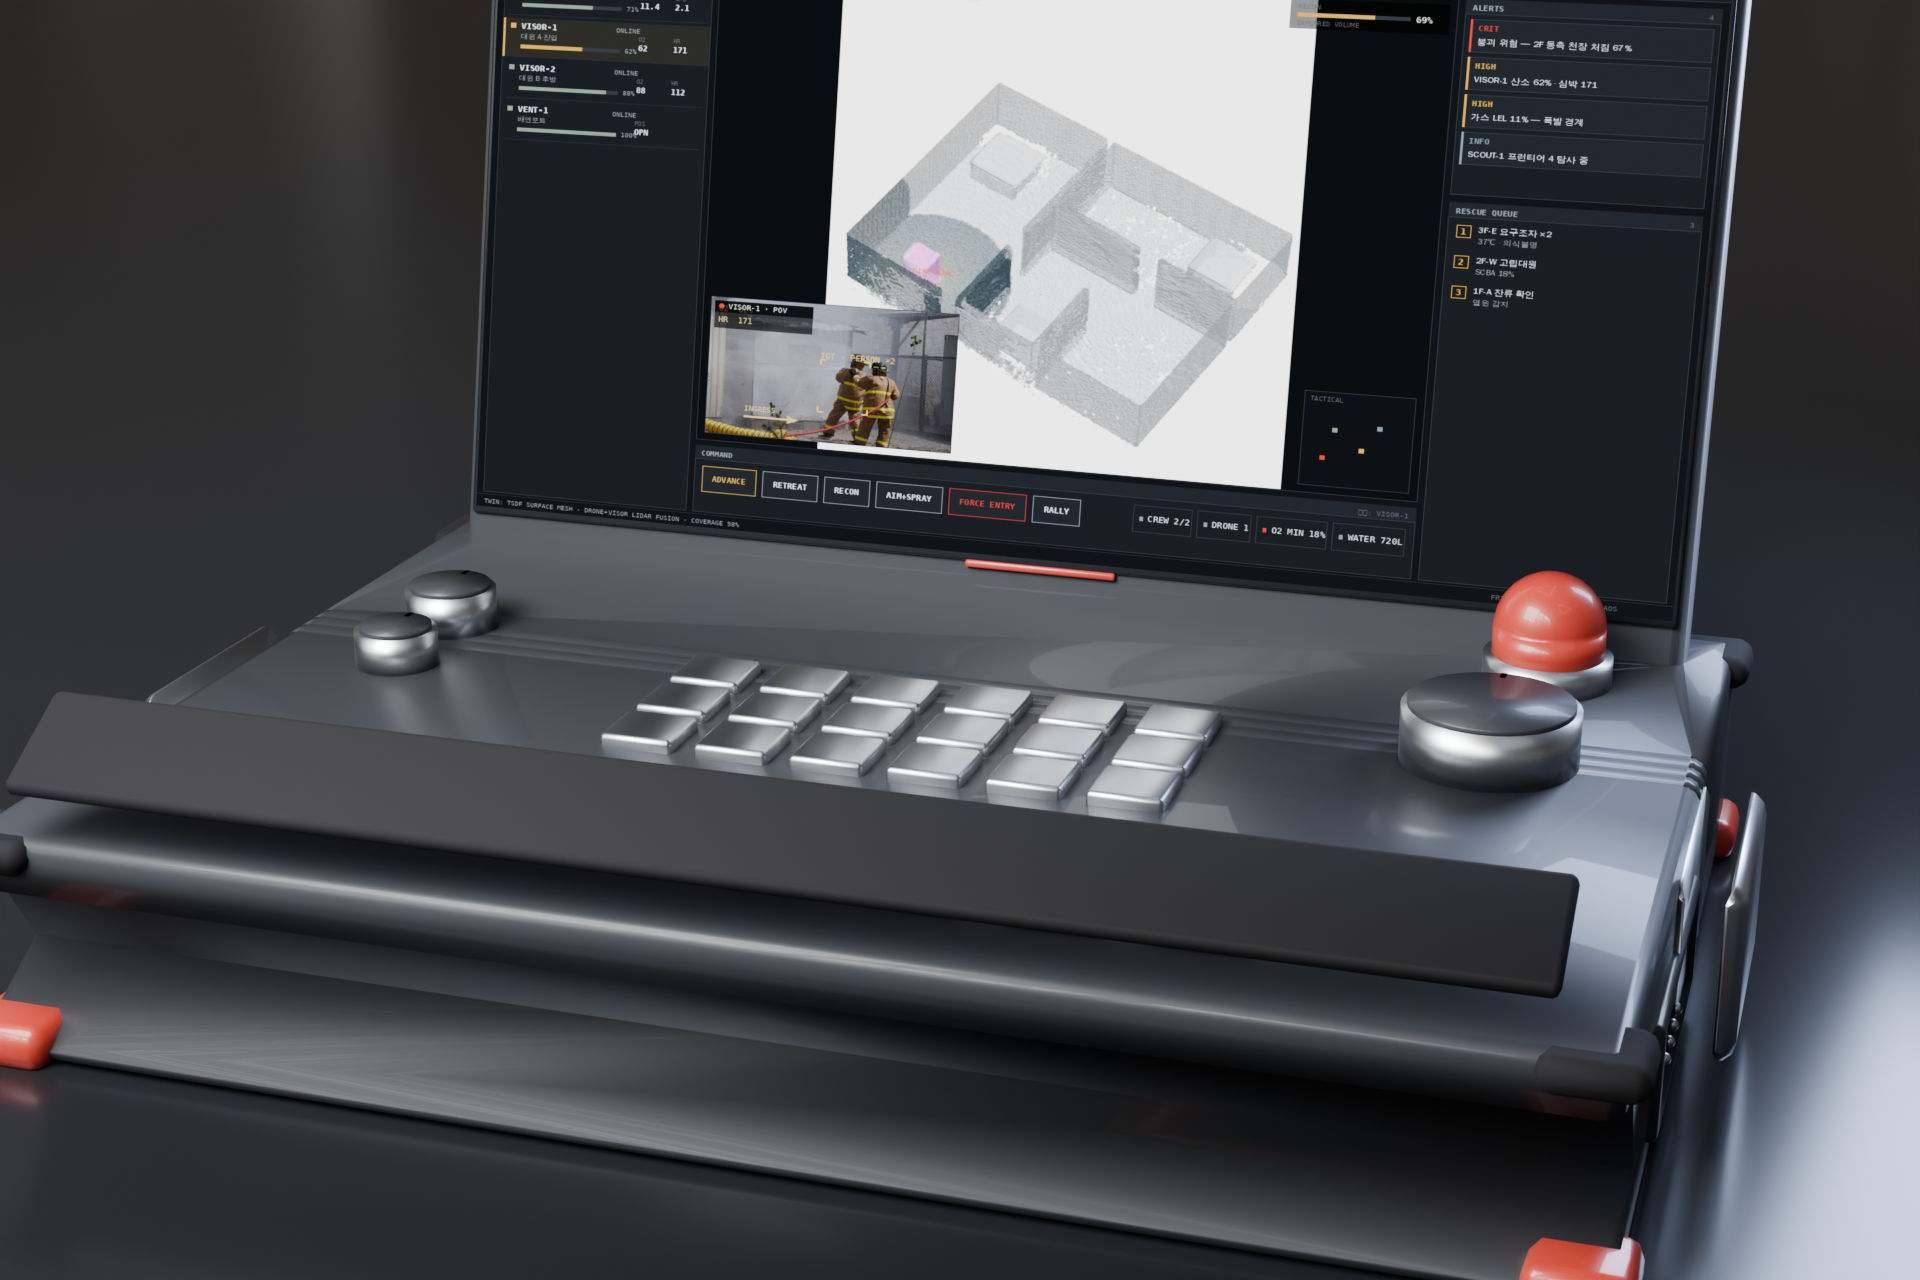
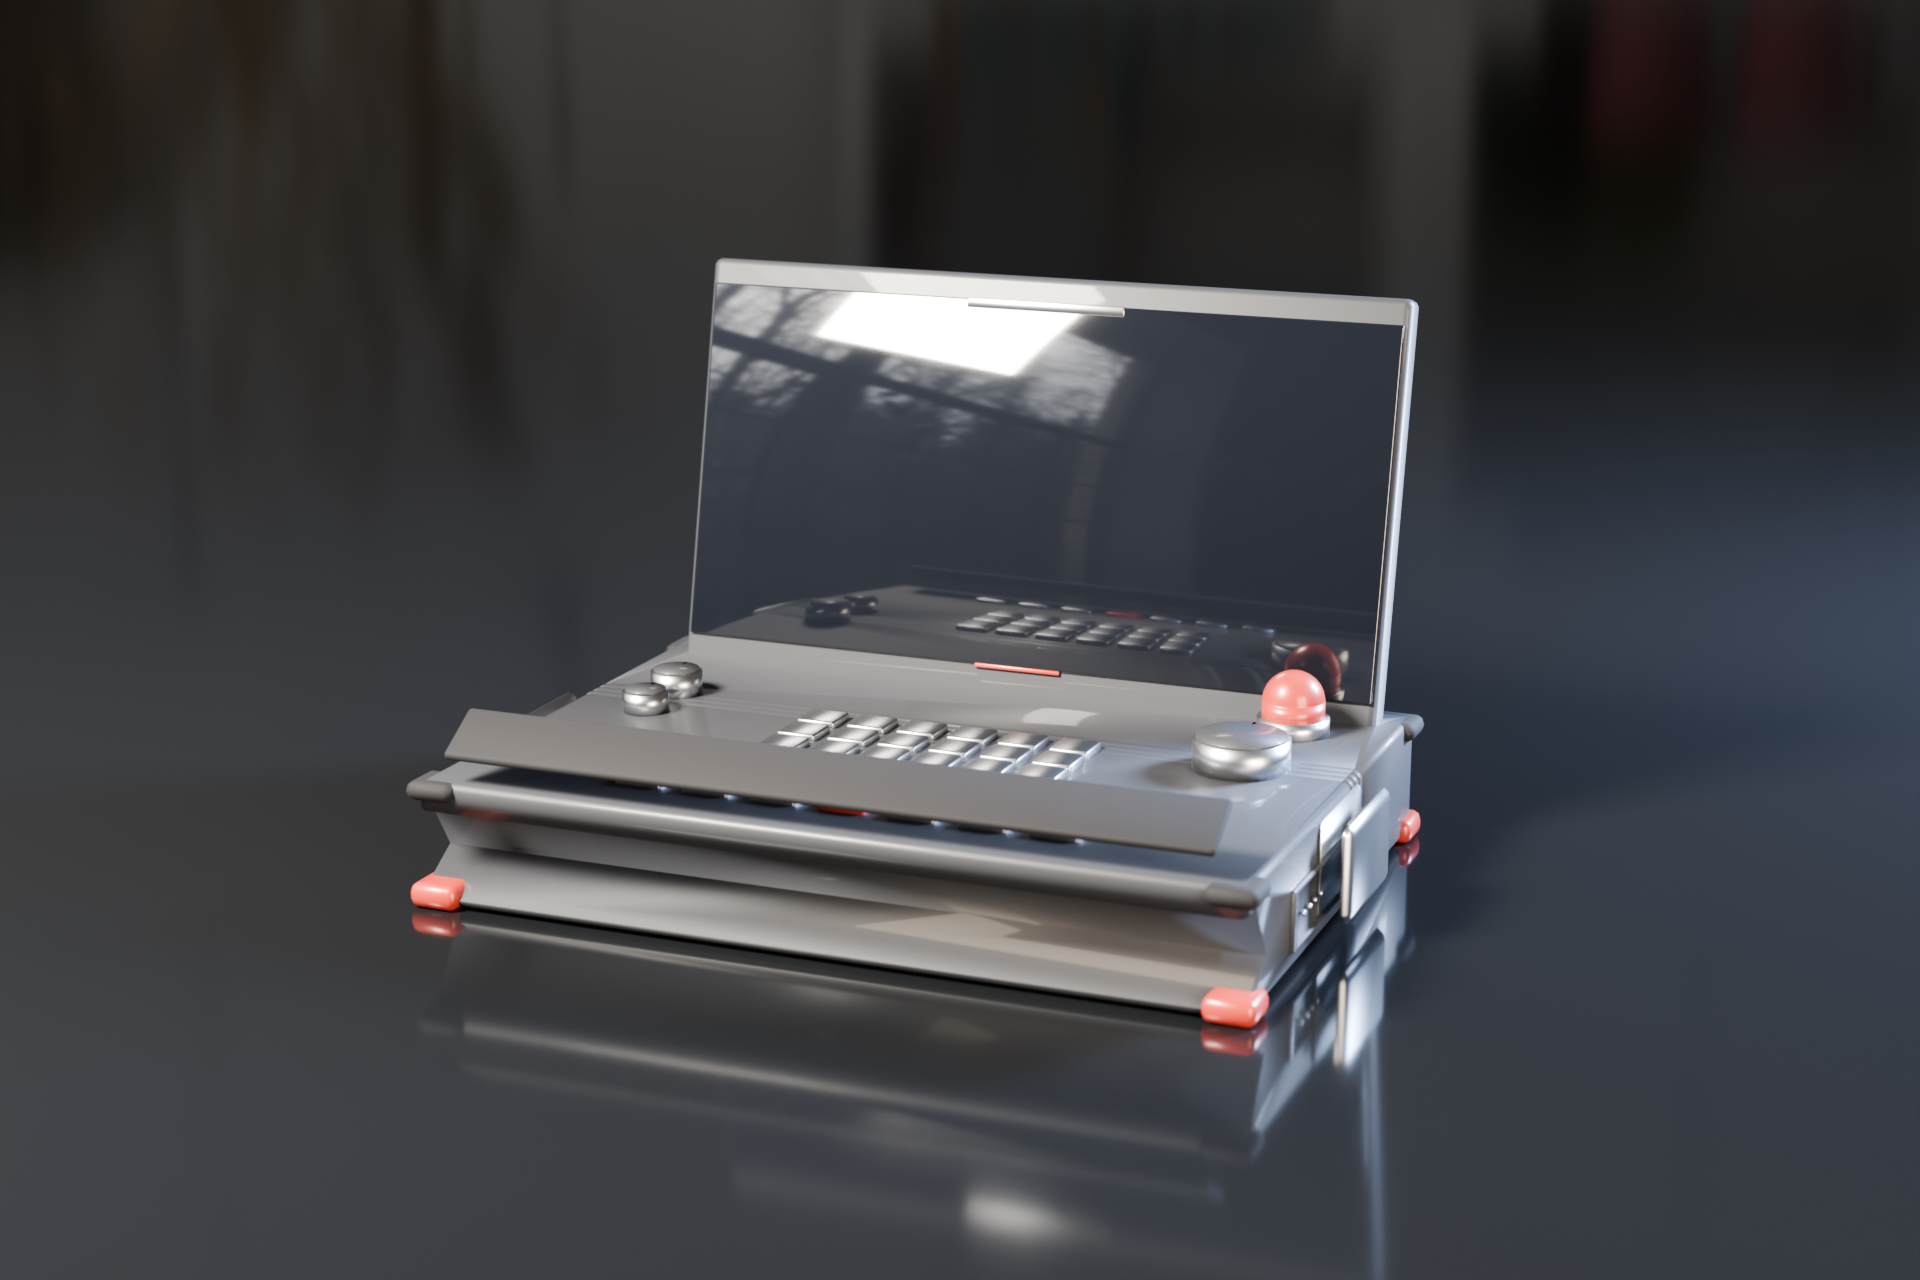
render: CONSOLE·VISOR 다크 제품샷(합성 없음, 스크린 꺼짐) + vent/twin 튜닝
콘솔은 대시보드 합성 제거 → 꺼진 다크글래스 스크린. 구 _detail 합성샷 삭제.

Claude-Session: https://claude.ai/code/session_01TaurVEcuaFqxGKrpuZ17se

diff --git a/hardware/render_blender/render_twin_hero.py b/hardware/render_blender/render_twin_hero.py
@@ -10,7 +10,8 @@ HDRI=os.path.join(ROOT,"hdri","studio_small_08_2k.hdr")
 argv=sys.argv[sys.argv.index("--")+1:] if "--" in sys.argv else []
 PLY=argv[0] if len(argv)>0 else "/tmp/dashtwin/twin.ply"
 OUT=argv[1] if len(argv)>1 else OUT_DEFAULT
-RES=(1920,1280); SAMPLES=340; CUT_Z=2.72     # 지붕/2층 컷 → 1층 내부 노출
+RES=(1920,1280); SAMPLES=200; CUT_Z=2.72     # 지붕/2층 컷 → 1층 내부 노출
+USE_HAZE=False                                # 볼륨 갓레이(CPU에서 매우 느림) ― 기본 off
 
 def setup_render():
     sc=bpy.context.scene; sc.render.engine='CYCLES'
@@ -130,7 +131,9 @@ def main():
     pts=[[email redacted] for v in o.data.vertices]
     ctr=sum(pts,mathutils.Vector((0,0,0)))/len(pts)
     rad=max((v-ctr).length for v in pts)
-    holo_floor(max(40,rad*3)); haze(ctr,rad); lights(ctr,rad)
+    holo_floor(max(40,rad*3));
+    if USE_HAZE: haze(ctr,rad)
+    lights(ctr,rad)
     cd=bpy.data.cameras.new("cam"); cd.lens=42
     cam=bpy.data.objects.new("cam",cd); bpy.context.collection.objects.link(cam); bpy.context.scene.camera=cam
     az,el=math.radians(-52),math.radians(38)

diff --git a/hardware/render_blender/render_products_dark.py b/hardware/render_blender/render_products_dark.py
@@ -171,7 +171,7 @@ JOBS=[
          groups=["body","screen","metal","accent","rubber"]),
     dict(name="scout",   stl="scout.stl", base=(0.018,0.020,0.026), az=46, el=17, zrot=25, lens=84, margin=1.18),
     dict(name="visor",   stl="visor.stl", base=(0.024,0.026,0.034), az=40, el=18, zrot=0,  lens=80, margin=1.4),
-    dict(name="vent",    stl="vent.stl",  base=(0.09,0.09,0.04),    az=42, el=22, zrot=20, lens=78, margin=1.45),
+    dict(name="vent",    stl="vent.stl",  base=(0.030,0.032,0.030), az=42, el=20, zrot=20, lens=80, margin=1.30),
 ]
 
 def main():